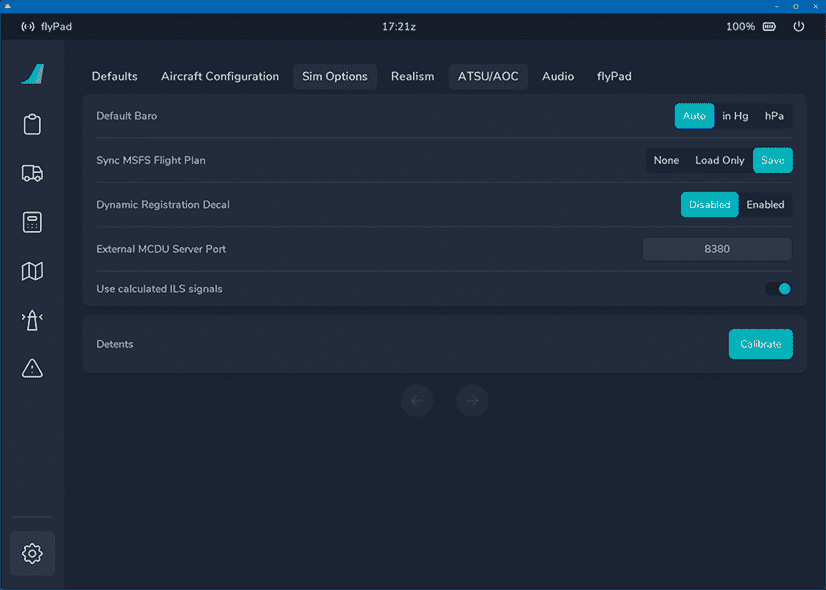
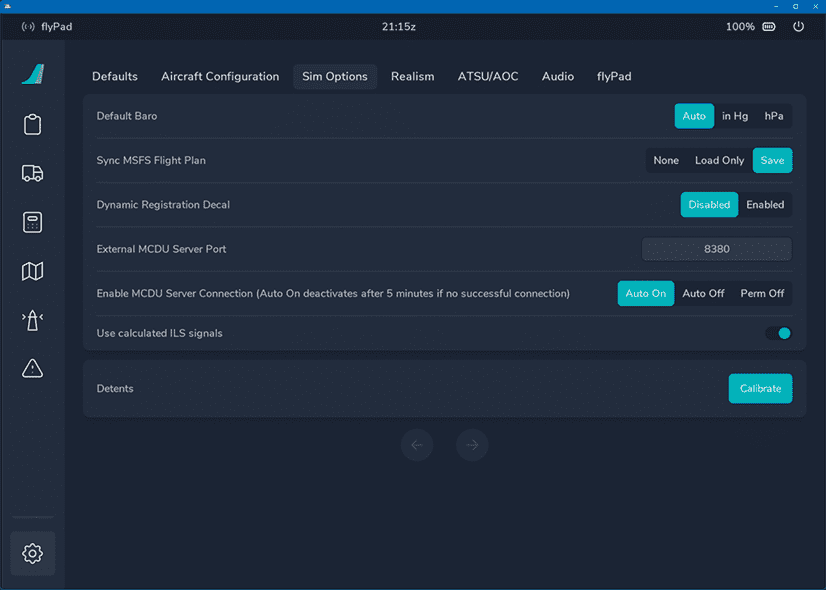
docs: Update MCDU Server Documentation for Timeout feature (#499)

diff --git a/docs/fbw-a32nx/support/reported-issues.md b/docs/fbw-a32nx/support/reported-issues.md
@@ -69,66 +69,6 @@ TEMPLATE
 
 -->
 
-??? bug "A32NX Performance Issues"
-    ### Performance Issues
-
-    !!! tip ""
-        *Affected versions: Development*
-    
-    ^^Description^^
-
-    Note: Please be aware this is different from the separate issues below:
-
-    - [Poor Performance After Sim Update 7 and Using DX12](#poor-performance-after-sim-update-7-and-using-dx12)
-    - [MSFS Performance Degradation In-Flight](#msfs-performance-degradation-in-flight)
-
-    For some users there is a noticeable performance degradation over longer flights (2h+) particularly closer to descent / approach phases. While we have had trouble replicating this across different user configurations we have identified some places we can attempt to mitigate this.
-    
-    ^^Root Cause^^
-
-    We have noted that the MSFS internal engine does not close and remove websocket objects correctly when the MCDU server is not reachable (e.g. offline) causing potential memory leaks and stutter issues. **This issue has been reported to Asobo's dev support channels - [here](https://devsupport.flightsimulator.com/questions/6375/websockets-are-not-cleaned-up.html).** 
-
-    We have reverted a [socket change PR](https://github.com/flybywiresim/a32nx/pull/6944) to help alleviate this and a more definitive fix will arrive via the [EFB in PR #6947](https://github.com/flybywiresim/a32nx/pull/6947).
-    
-    ^^Additional Information / Workaround^^
-    
-    While you wait for the fix described above [PR #6947](https://github.com/flybywiresim/a32nx/pull/6947), you can run our built in MCDU server feature and make sure you are connected.
-
-    !!! warning ""
-        **Note:** There is no need to actually use the feature - simply have the MCDU server running during your flight.
-
-    For instructions on how to find and start the MCDU server - see [our feature guide](../feature-guides/web-mcdu.md#start-the-mcdu-web-interface-server).
-
-??? bug "Load Modules Async Causes CTD"
-    ### Load Modules Async Causes CTD
-
-    !!! tip ""
-        *Affected versions: Development*
-
-    ^^Description^^
-
-    The Load Modules Asynchronously WASM setting causes the development version to crash if turned on. Crash occurs usually 3/4 through the loading bar after selecting FLY.
-
-    ^^Root Cause^^
-
-    *Under Investigation*
-
-    ^^Possible Solution or Workaround^^
-
-    We recommend turning this setting off in the developer mode settings. Please see the following steps:
-
-    1. Go to Options
-    - Go to General Settings
-    - Go to Developers and switch Developer Mode to `ON`
-    - Go to the top bar that appears and find Options
-    - Under WASM ensure `Load Modules Asynchronously` is deselected
-
-    ^^Additional Information^^
-
-    Here is a sample of the setting that needs to be deselected. You can also turn off Fast WASM Compilation as well.
-
-    ![WASM issue image](https://cdn.discordapp.com/attachments/838062729398976522/922226489724907561/dev-bar.png)
-
 ??? bug "Invisible Aircraft"
     ### Invisible Aircraft
 
@@ -160,6 +100,36 @@ TEMPLATE
     ^^Additional Information^^
 
     Information on how to install with the FlyByWire Installer can be found here: [Installation Guide](../installation.md).
+
+??? bug "Load Modules Async Causes CTD"
+    ### Load Modules Async Causes CTD
+
+    !!! tip ""
+        *Affected versions: Development*
+
+    ^^Description^^
+
+    The Load Modules Asynchronously WASM setting causes the development version to crash if turned on. Crash occurs usually 3/4 through the loading bar after selecting FLY.
+
+    ^^Root Cause^^
+
+    *Under Investigation*
+
+    ^^Possible Solution or Workaround^^
+
+    We recommend turning this setting off in the developer mode settings. Please see the following steps:
+
+    1. Go to Options
+    - Go to General Settings
+    - Go to Developers and switch Developer Mode to `ON`
+    - Go to the top bar that appears and find Options
+    - Under WASM ensure `Load Modules Asynchronously` is deselected
+
+    ^^Additional Information^^
+
+    Here is a sample of the setting that needs to be deselected. You can also turn off Fast WASM Compilation as well.
+
+    ![WASM issue image](https://cdn.discordapp.com/attachments/838062729398976522/922226489724907561/dev-bar.png)
 
 ??? bug "Bad Performance after Sim Update 7 and Using DX12"
     ### Poor Performance After Sim Update 7 and Using DX12

diff --git a/docs/fbw-a32nx/feature-guides/web-mcdu.md b/docs/fbw-a32nx/feature-guides/web-mcdu.md
@@ -27,7 +27,7 @@ To do this locate the `flybywire-aircraft-a320-neo` folder in your MSFS Communit
 
 ![MCDU Server Executable](../assets/mcdu-server/mcdr-server.exe.png "MCDU Server Executable"){loading=lazy}
 
-Double click on the `server.exe` file to start the MCDU Server.
+Double-click on the `server.exe` file to start the MCDU Server.
 
 !!! tip "You can also use the command prompt to start the server manually"
     See advanced startup options below: [Advanced Start Options](#advanced-start-options)
@@ -43,6 +43,26 @@ After this the MCDU Server will start and will provide you with links for your l
 **You will need to keep this window open and the MCDU Server running to use the MCDU Web Interface**.
 
 ![MCDU Server Command Window](../assets/mcdu-server/mcdu-server-cmd-window.png "MCDU Server Command Window"){loading=lazy}
+
+### MCDU Server Connection Attempts Timeout
+
+Due to issues in the Microsoft Flight Simulator Coherent Engine (Javascript Engine) continuous connection attempts lead to performance problems for some users because of how the engine handles unsuccessful connections. 
+
+Therefore, a timeout mechanism has been built into the MCDU limiting the number of connection attempts the MCDU will execute.
+
+A setting in the fylPad EFB Sim Options page has been introduced to allow users to restart the connection attempts or to turn off the attempts to connect to the MCDU Server completely.
+
+![flyPad EFB Settings Sim Options](../assets/mcdu-server/efb-setting-simoptions.png)
+
+The three settings are:
+
+- Auto On:
+    - The MCDU attempts to connect to the MCDU Server for 5min after pressing "Ready to Fly".
+    - If this setting is selected the MCDU will try to connect to the MCDU Server for 5min after every start of a new flight.
+- Auto Off:
+    - After 5min of unsuccessful connection attempts the MCDU will stop any further attempts and this setting will be automatically set.
+- Perm Off:
+    - The MCDU will not make any attempts to connect to the MCDU Server.
 
 ### Browser on Local PC
 

diff --git a/docs/fbw-a32nx/feature-guides/flyPad/settings.md b/docs/fbw-a32nx/feature-guides/flyPad/settings.md
@@ -95,12 +95,21 @@ Settings for simulation aspects of the A32NX aircraft.
 
         !!! warning "Synchronization Issues Expected"
             The aircraft's custom Flight Management System provides better accuracy and features over the default flight plan manager in Microsoft Flight simulator which results in issues syncing the flight plan from the MCDU back into the simulator. Do not expect it to work properly in all cases.
+ 
 - Dynamic Registration Decal:
     - The dynamic registration number decal shown on the external livery can be disabled to improve appearance when using liveries with a static registration number.
 - External MCDU Server Port
     - User can change the port for the internal MCDU websocket server in case the default port is already occupied on the user's system.
     - Default is: 8380
     - ~~This is not the port for using in the browser to access the MCDU Web Interface.~~
+- Enable MCDU Server Connection
+    - Auto On:
+        - The MCDU attempts to connect to the MCDU Server for 5min after pressing "Ready to Fly". 
+        - If this setting is selected the MCDU will try to connect to the MCDU Server for 5min after every start of a new flight.
+    - Auto Off:
+        - After 5min of unsuccessful connection attempts the MCDU will stop any further attempts and this setting will be automatically set.
+    - Perm Off:
+        - The MCDU will not make any attempts to connect to the MCDU Server.
 - Use calculated ILS signals
     - Enable this setting to use a calculated ILS signal instead of the signal provided by Microsoft Flight Simulator.
     - This avoids unwanted and unrealistic loss of the ILS signal in Microsoft Flight Simulator which often happens when the aircraft gets below the antenna position.
